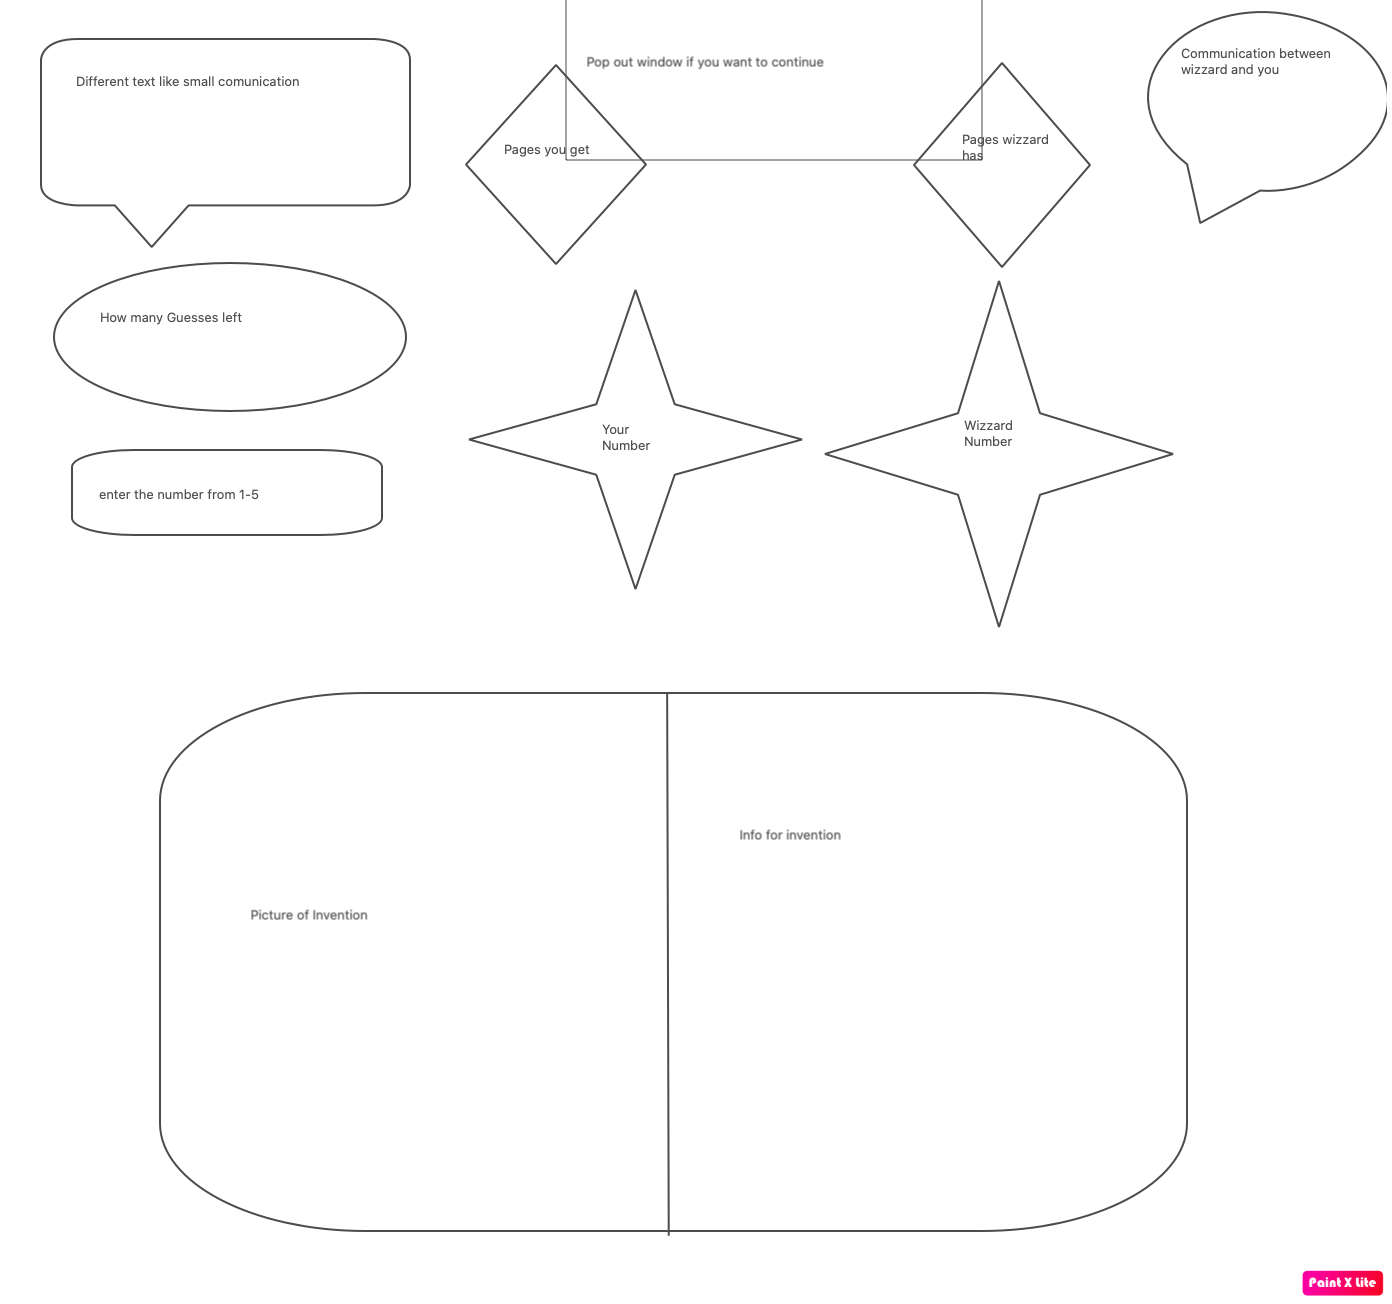
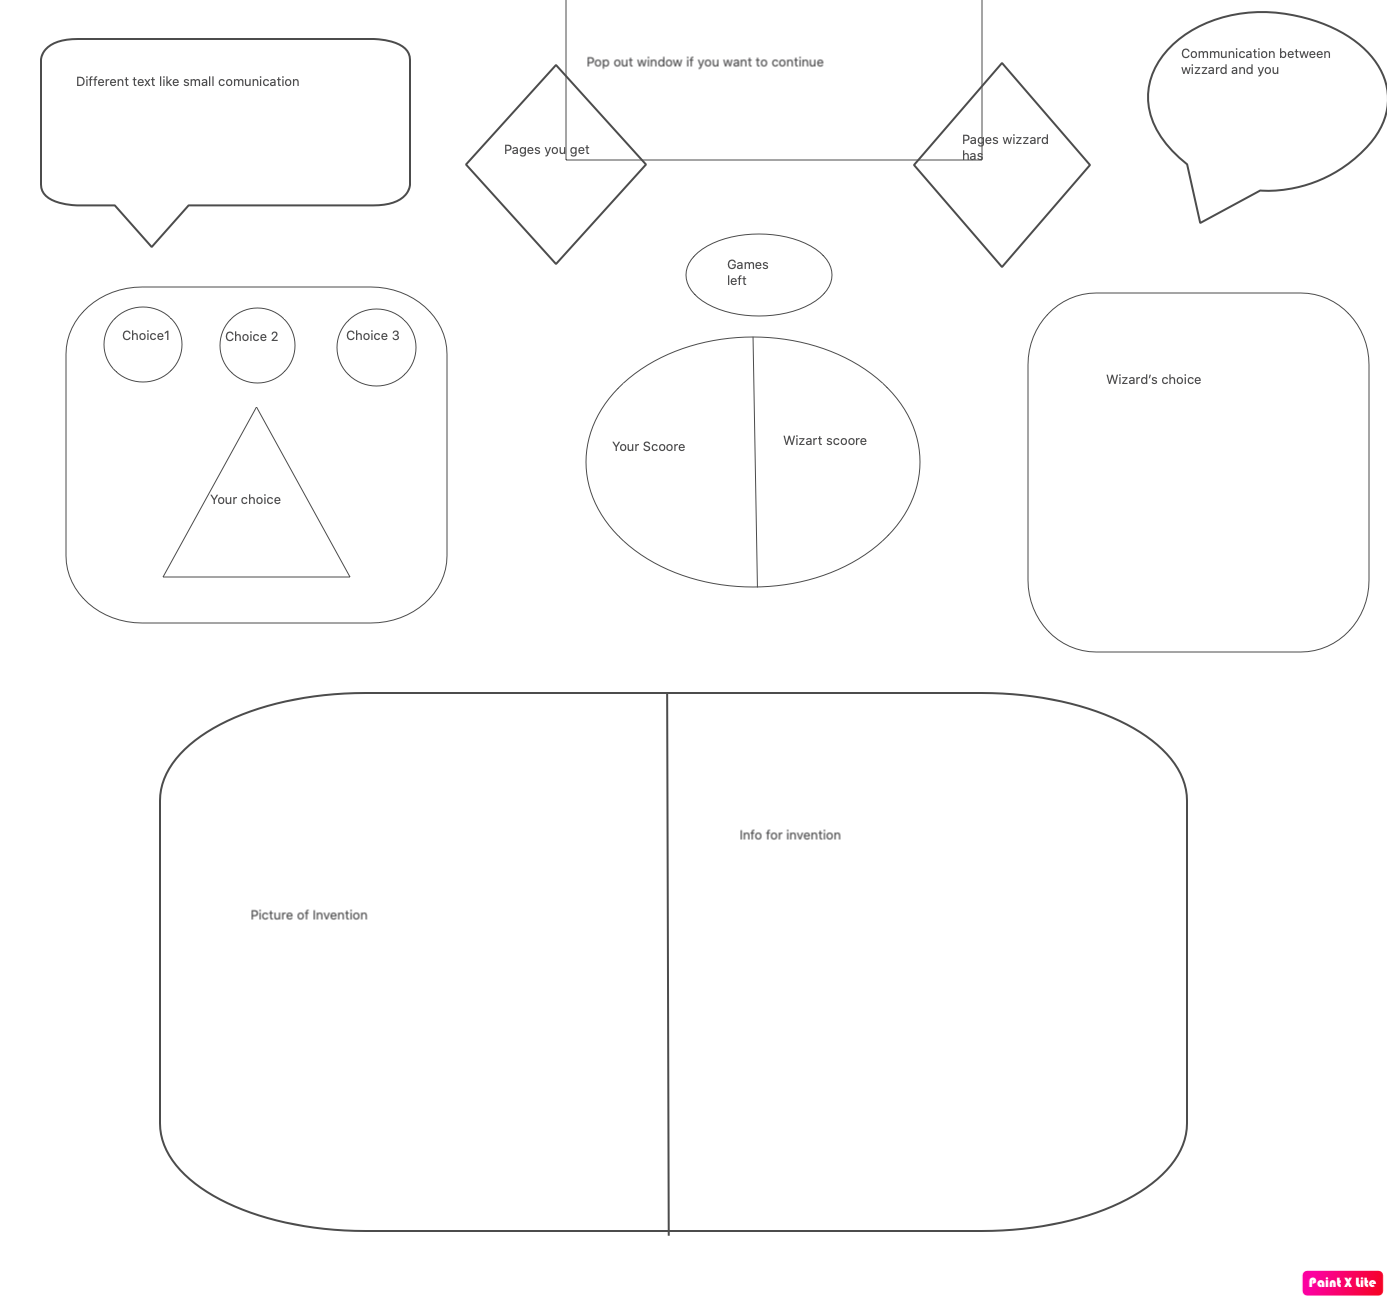
Made the changes in rules and wirframe

diff --git a/README.md b/README.md
@@ -8,16 +8,16 @@ The first page of the game will be a welcome page, It will continue two buttons 
 The rules are:
 You are the gardian of the book which contains the information about the invantions which changed the world. 
 There are an evil wizard who stole 3 pages from the book which contains the important inventions .
-In order to return those pages you need to play the game. Wizzard will choose the number from 1-9 and you need to guess the number. You will have 5 tries, if you guess the number the wizzard will return you a page with one of the inventions. You then have a choice quite or continue playing. 
-If you did not guess the number you loose, and the wizzard will change the history. 
+In order to return those pages you need to play the game. You will play the game similar to "rock, scissors and paper". You need to win 3 mini games out of 5 in order to win one page. You then have a choice quite or continue playing. 
+If  you loose, the wizzard will change the history. 
 You need to win 3 games in order to win the game.
 
 Pseudocode:
 My JavaScript will contain the following functions:
 function to display the rules and story.
 function to start game
-function to create random number for wizzard
-function to check if user inputs correct number and reduce the tryes
+function to create random choise for wizzard
+function to check if user bits the wizzard
 function to ask the user to quit or continue
 
 I would need the class which will hold the picture and information for the inventions.
